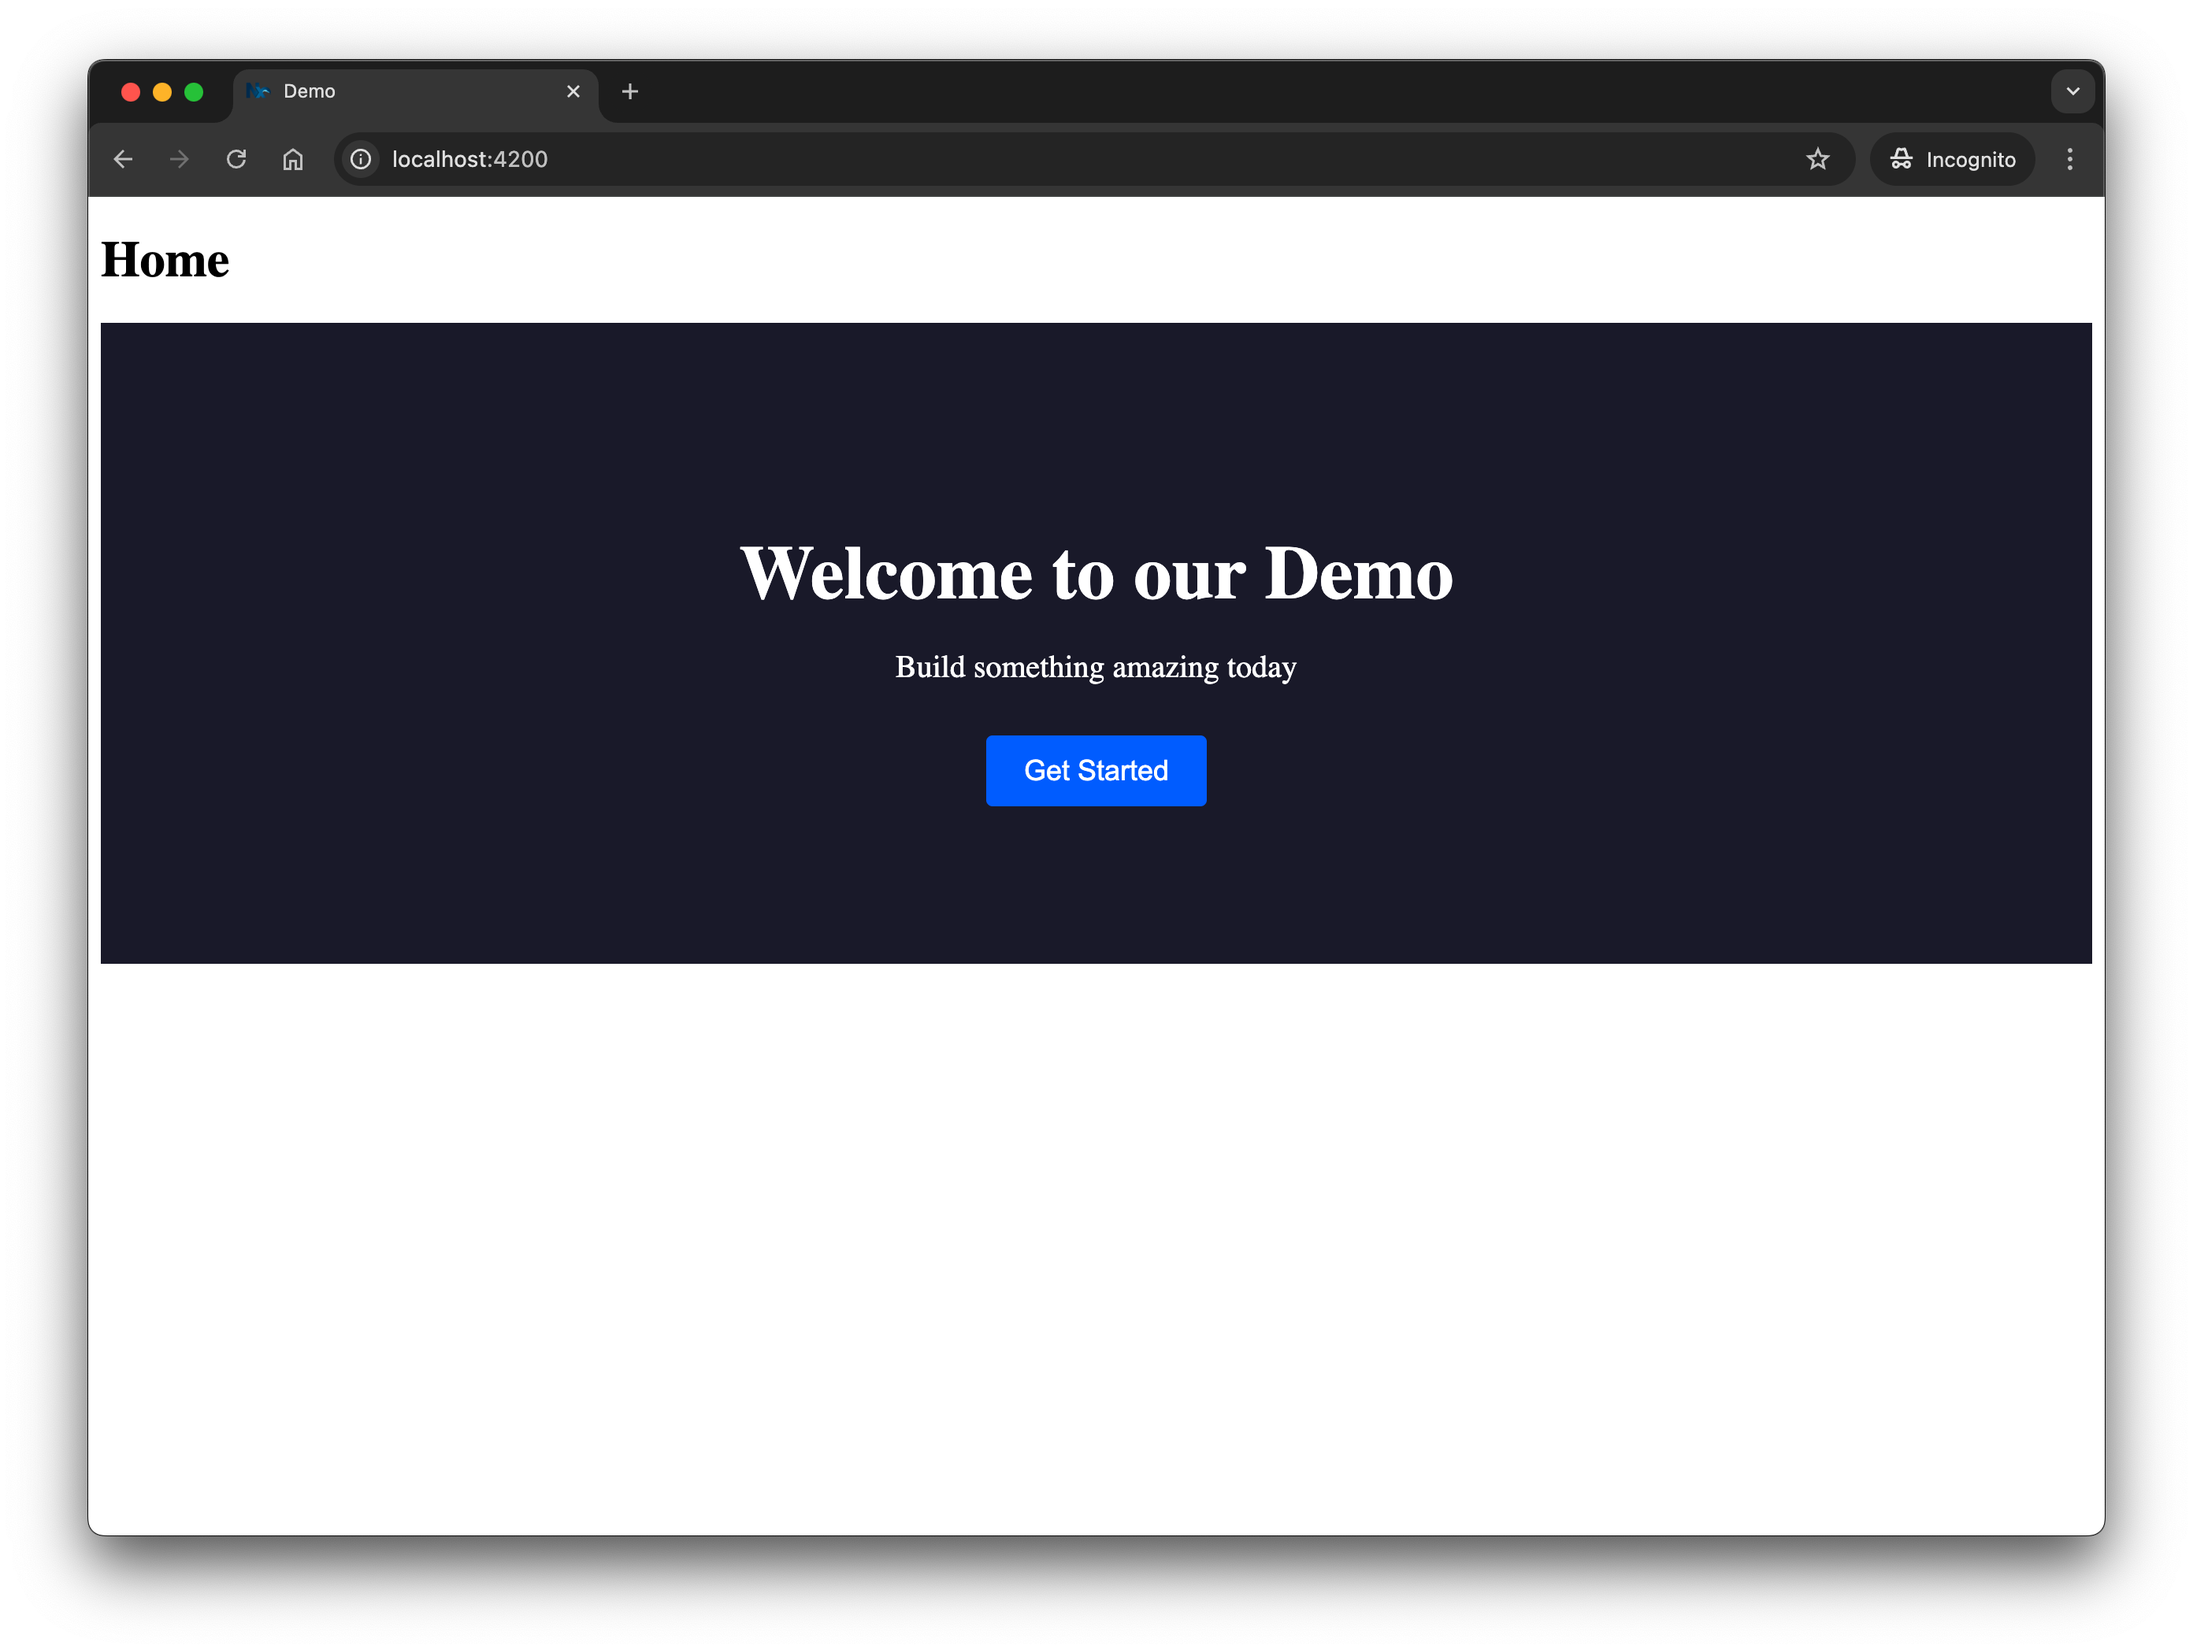
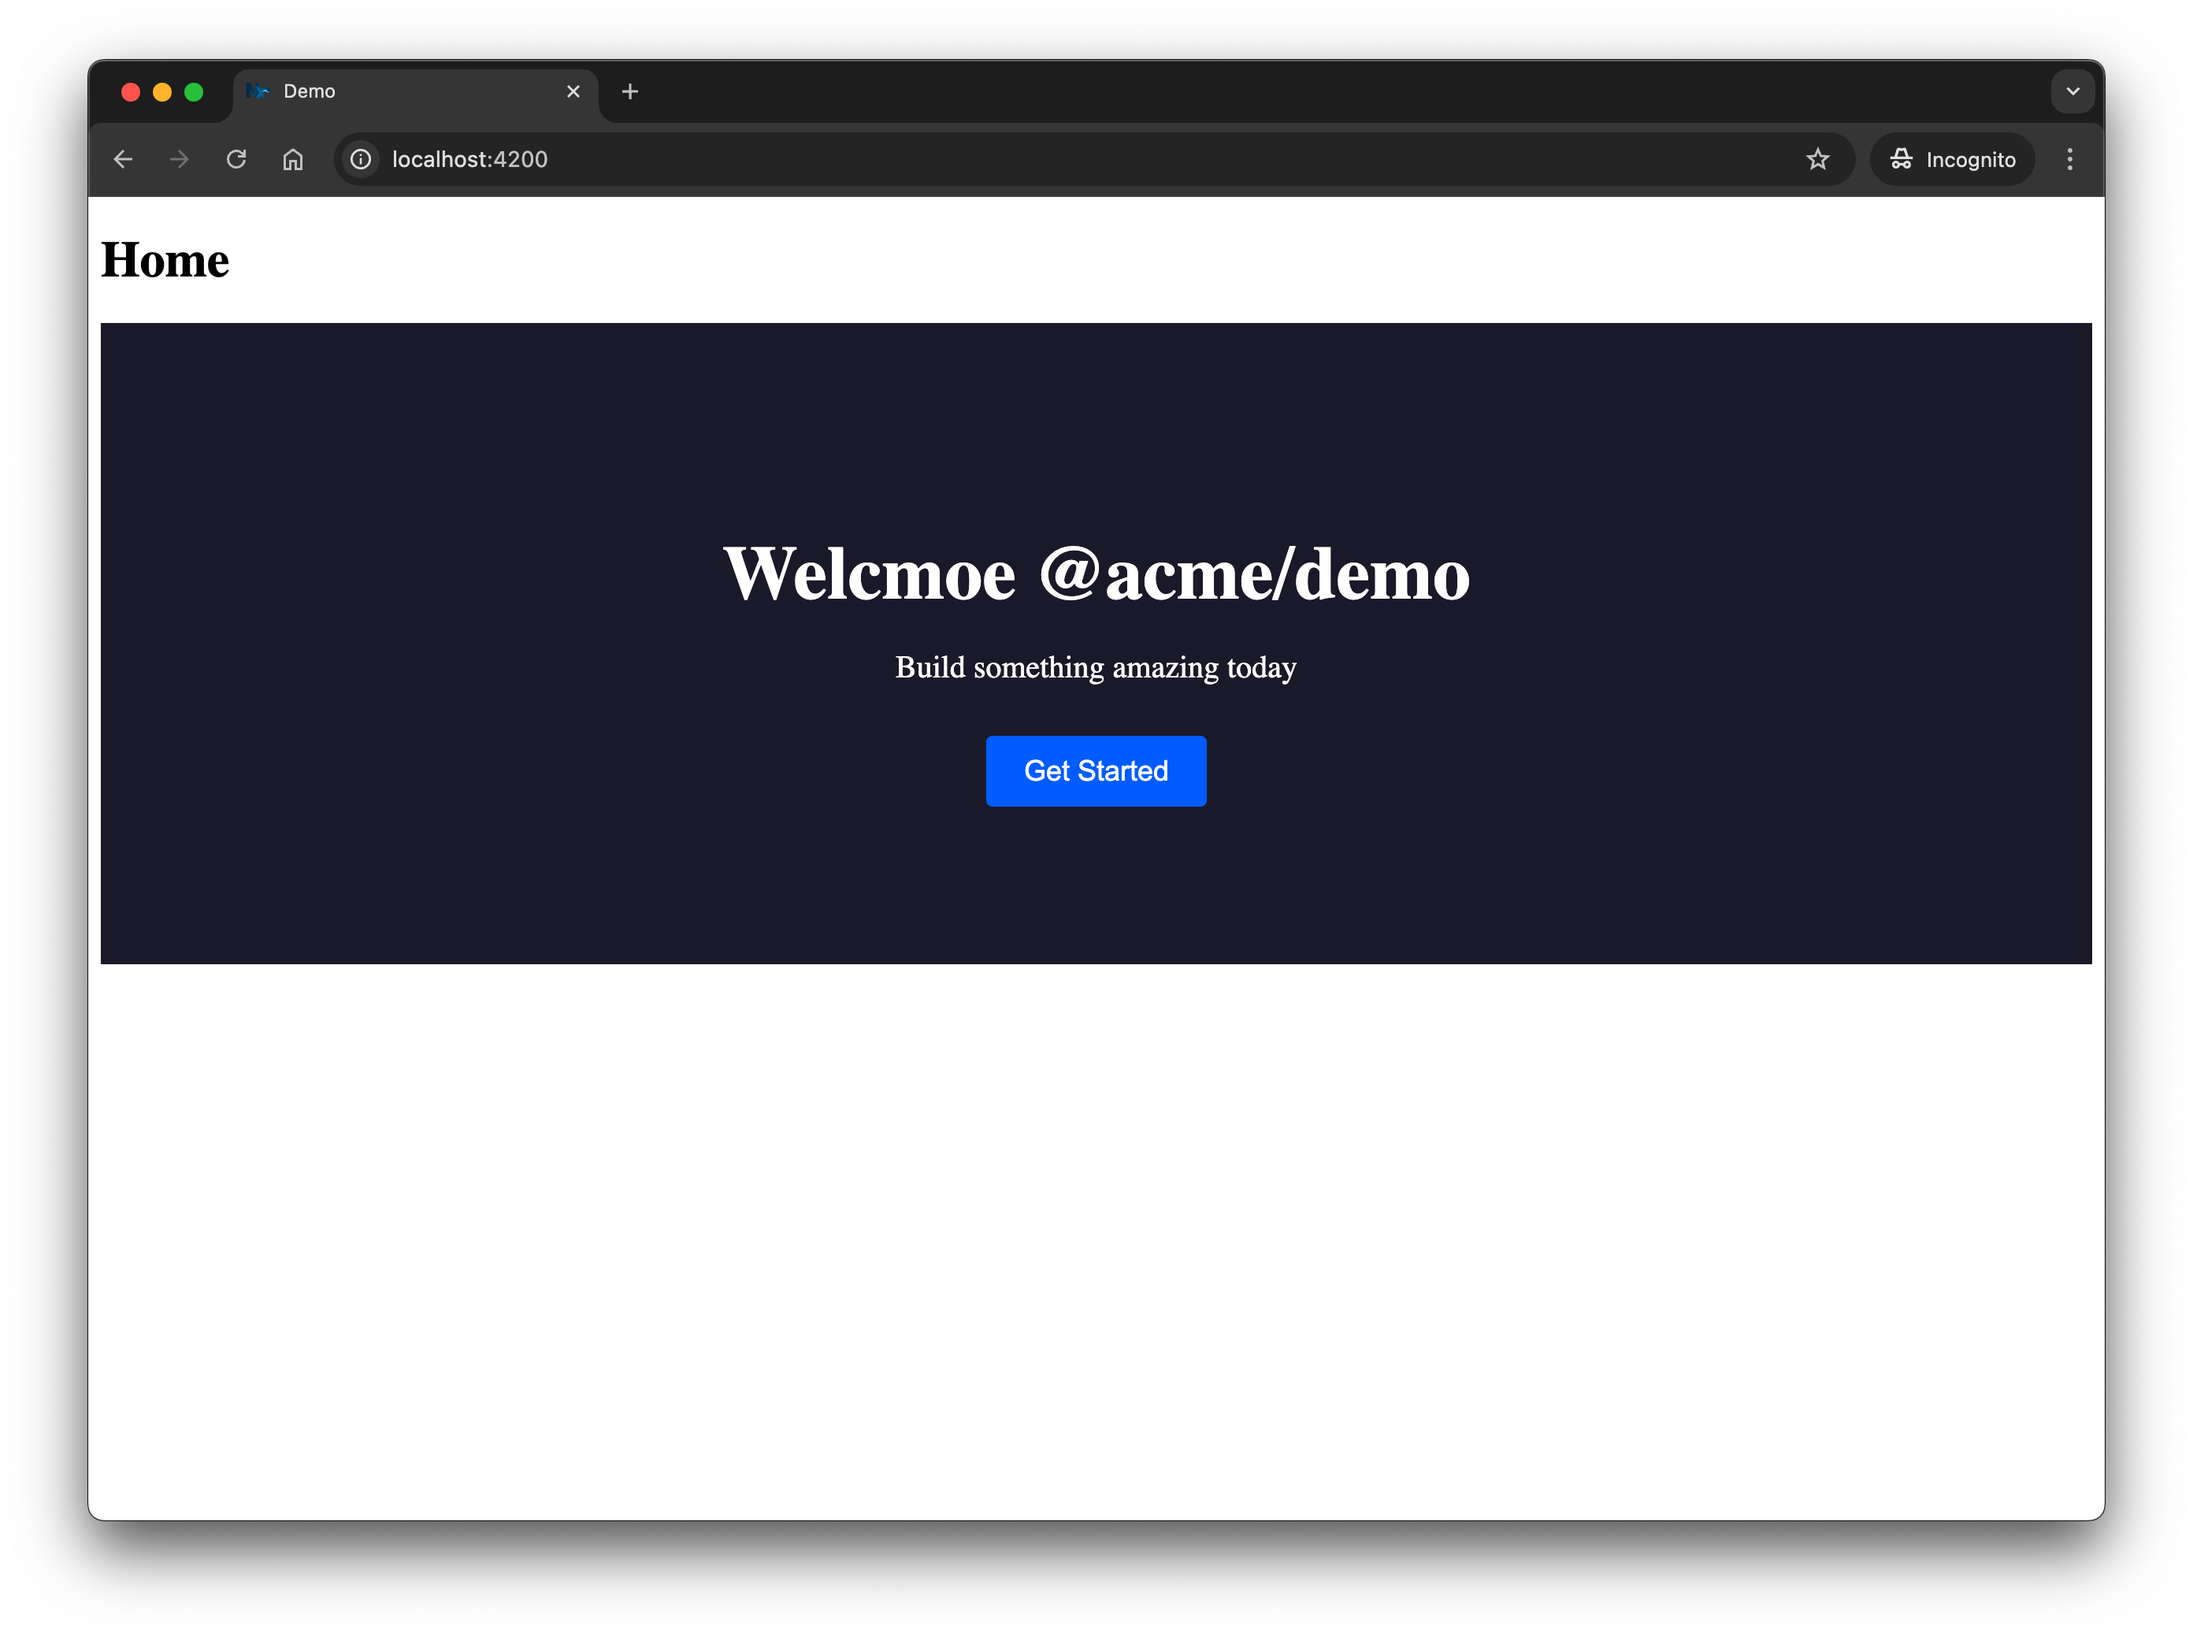
docs(react): address feedback and TODOs

diff --git a/docs/shared/tutorials/react-monorepo.md b/docs/shared/tutorials/react-monorepo.md
@@ -69,9 +69,21 @@ The `demo` app is created under the `apps` directory as a convention. Later in t
 
 The [`nx.json` file](/reference/nx-json) contains configuration settings for Nx itself and global default settings that individual projects inherit.
 
-Before continuing, it is **important** to make sure that your GitHub repository is [connected to your Nx Cloud organizatino](https://cloud.nx.app/setup) to enable remote caching and self-healing in CI.
+Before continuing, it is **important** to make sure that your GitHub repository is [connected to your Nx Cloud organization](https://cloud.nx.app/setup) to enable remote caching and self-healing in CI.
+
+### Checkpoint: Your Workspace is Created and Configured in CI
+
+At this point you should have:
+
+1. A new Nx workspace on your local machine with a React app in `apps/demo`
+2. A new GitHub repository for the workspace with `.github/worksflows/ci.yml` pipeline preconfigured
+3. A workspace in Nx Cloud that is connected to the GitHub repository
+
+You should see your workspace in your [Nx Cloud organization](https://cloud.nx.app/orgs).
 
 ![](/shared/images/tutorials/connected-workspace.png)
+
+If you do not see your workspace in Nx Cloud then please follow the steps outlined in the [Nx Cloud setup](https://cloud.nx.app/create-nx-workspace).
 
 Now, let's build some features and see how Nx helps get us to production faster.
 
@@ -263,32 +275,6 @@ export * from './lib/ui';
 Let's add a simple `Hero` component that we can use in our demo app.
 
 ```tsx {% fileName="packages/ui/src/lib/hero.tsx" %}
-const styles = {
-  hero: {
-    backgroundColor: '#1a1a2e',
-    color: 'white',
-    padding: '100px 20px',
-    textAlign: 'center' as const,
-  },
-  title: {
-    fontSize: '48px',
-    marginBottom: '16px',
-  },
-  subtitle: {
-    fontSize: '20px',
-    marginBottom: '32px',
-  },
-  button: {
-    backgroundColor: '#0066ff',
-    color: 'white',
-    border: 'none',
-    padding: '12px 24px',
-    fontSize: '18px',
-    borderRadius: '4px',
-    cursor: 'pointer',
-  },
-};
-
 export function Hero(props: {
   title: string;
   subtitle: string;
@@ -296,10 +282,42 @@ export function Hero(props: {
   onCtaClick?: () => void;
 }) {
   return (
-    <div style={styles.hero}>
-      <h1 style={styles.title}>{props.title}</h1>
-      <p style={styles.subtitle}>{props.subtitle}</p>
-      <button onClick={props.onCtaClick} style={styles.button}>
+    <div
+      style={{
+        backgroundColor: '#1a1a2e',
+        color: 'white',
+        padding: '100px 20px',
+        textAlign: 'center',
+      }}
+    >
+      <h1
+        style={{
+          fontSize: '48px',
+          marginBottom: '16px',
+        }}
+      >
+        {props.title}
+      </h1>
+      <p
+        style={{
+          fontSize: '20px',
+          marginBottom: '32px',
+        }}
+      >
+        {props.subtitle}
+      </p>
+      <button
+        onClick={props.onCtaClick}
+        style={{
+          backgroundColor: '#0066ff',
+          color: 'white',
+          border: 'none',
+          padding: '12px 24px',
+          fontSize: '18px',
+          borderRadius: '4px',
+          cursor: 'pointer',
+        }}
+      >
         {props.cta}
       </button>
     </div>
@@ -326,7 +344,7 @@ export function App() {
     <>
       <h1>Home</h1>
       <Hero
-        title="Welcome to our Demo"
+        title="Welcmoe to our Demo"
         subtitle="Build something amazing today"
         cta="Get Started"
       />
@@ -340,6 +358,8 @@ export default App;
 Serve your app again (`npx nx serve demo`) and you should see the new Hero component from the `ui` library rendered on the home page.
 
 ![](/shared/images/tutorials/react-demo-with-hero.png)
+
+If you have keen eyes, you may have noticed that there is a typo in the `App` component. This mistake is intentional, and we'll see later how Nx can fix this issue automatically in CI.
 
 ## Visualize your Project Structure
 
@@ -412,9 +432,9 @@ npx nx run-many -t test lint
 
 This is exactly what is configured in `.github/workflows/ci.yml` for the CI pipeline. The `run-many` command allows you to run multiple tasks across multiple projects in parallel, which is particularly useful in a monorepo setup.
 
-You may notice that the test failed for the `demo` app because we've updated the content. Don't worry about it for now, we'll fix it in a moment with the help of Nx Cloud's self-healing feature.
+There is a test failure for the `demo` app due to the updated content. Don't worry about it for now, we'll fix it in a moment with the help of Nx Cloud's self-healing feature.
 
-### Cache Tasks
+### Local Task Cache
 
 One thing to highlight is that Nx is able to [cache the tasks you run](/features/cache-task-results).
 
@@ -445,7 +465,7 @@ Not all tasks might be cacheable though. You can configure the `cache` settings 
 
 In this section, we'll explore how Nx Cloud can help your pull request get to green faster with self-healing CI. Recall that our demo app has a test failure, so let's see how this can be automatically resolved.
 
-Before we continue, make sure you have `npx nx-cloud fix-ci` in your GitHub Actions workflow. This command is responsible for enabling self-healing CI.
+The `npx nx-cloud fix-ci` command that is already included in your GitHub Actions workflow (e.g. `github/workflows/ci.yml`)is responsible for enabling self-healing CI and will automatically suggest fixes to your failing tasks.
 
 ```yaml {% fileName=".github/workflows/ci.yml" highlightLines=[31,32] %}
 name: CI
@@ -468,15 +488,15 @@ jobs:
         with:
           filter: tree:0
           fetch-depth: 0
+
       - uses: actions/setup-node@v4
         with:
           node-version: 20
           cache: 'npm'
 
       - run: npm ci --legacy-peer-deps
-      - uses: nrwl/nx-set-shas@v4
 
-      - run: npx nx affected -t lint test build
+      - run: npx nx run-many -t lint test build
 
       - run: npx nx-cloud fix-ci
         if: always()
@@ -484,43 +504,58 @@ jobs:
 
 You will also need to install the [Nx Console](/getting-started/editor-setup) editor extension for VS Code, Cursor, or IntelliJ. For the complete AI setup guide, see our [AI integration documentation](/getting-started/ai-integration).
 
+{% install-nx-console /%}
+
 Now, let's push the `add-hero-component` branch to GitHub and open a new pull request.
 
 ```shell
 git push origin add-hero-component
+# Don't forget to open a pull request on GitHub
 ```
 
-// TODO(jack): Show a screenshot of the PR on GitHub with the failed CI check.
+As expected, the CI check fails because of the test failure in the `demo` app. But rather than looking at the pull request, Nx Console notifies you that the run has completed, and that it has a suggested fix for the failing test. This means that you don't have to waste time **babysitting your PRs**, and the fix can be applied directly from your editor.
 
-As expected, the CI check fails because of the test failure in the `demo` app. Nx Console notifies you whenever a CI run completes, whether successfully or not. This means that you don't have waste time **babysitting your PRs**.
-
-![Nx Console with failure notification](/shared/images/tutorials/react-ci-failure-console.png)
+![Nx Console with failure notification](/shared/images/tutorials/react-ci-notification.png)
 
 ### Fix CI from Your Editor
 
-From the Nx Console notification, you can click `Help me fix this error` button. Review the suggested unit test fix, and approve it. That's it!
+From the Nx Console notification, you can click `Show Suggested Fix` button. Review the suggested fix, which in this case is to change the typo `Welcmoe `to the correct `Welcome` spelling. Approve this fix by clicking `ApplyFix` and that's it!
 
-// TODO(jack): The screenshot below should match the actual error and suggestion (I just pulled this from blog post since I woudln't get it to work)
+![Suggestion to fix the typo in the editor](/shared/images/tutorials/react-ci-suggestion.png)
 
-![Suggested fix to update the test to match new text](/shared/images/tutorials/react-ci-fix-suggestion.avif)
+You didn't have to leave your editor or do any manual work to fix it. This is the power of self-healing CI with Nx Cloud.
 
-Now, your pull request should be green, and you didn't have to leave your editor or do any manual work to fix it. This is the power of self-healing CI with Nx Cloud.
+### Remote Cache for Faster Time To Green
 
-The remainder of this tutorial will focus on how to scale your monorepo to work with larger teams and large codebases. If this is not applicable to you now, feel free to skip ahead to [the end of the tutorial](#next-steps).
+After the fix has been applied and committed, CI will re-run automatically, and you will be notified of the results in your editor.
 
-## Scaling Your Monorepo
+![Tasks with remote cache hit](/shared/images/tutorials/react-remote-cache-notification.png)
 
-// TODO(jack): We should put affected and distribution in this section, or create a separate guide and link to it.
+When you click `View Results` to show the run in Nx Cloud, you'll notice something interesting. The lint and test tasks fo the `ui` library were read from remote cache and did not have to run again, thus each taking less than a second to complete.
+
+![Nx Cloud run showing remote cache hits](/shared/images/tutorials/react-remote-cache-cloud.png)
+
+This happens because Nx Cloud caches the results of tasks and reuses them across different CI runs. As long as the inputs for each task have not changed (e.g. source code), then their results can be replayed from Nx Cloud's [Remote Cache](/ci/features/remote-cache). In this case, since the last fix was applied only to the `demo` app's source code, none of the tasks for `ui` library had to be run again.
+
+This significantly speeds up the time to green for your pull requests, because subsequent changes to them have a good chance to replay tasks from cache.
+
+{% callout type="note" title="Remote Cache Outputs" %}
+Outputs from cached tasks, such as the `dist` folder for builds or `coverage` folder for tests, are also read from cache. Even though a task was not run again, its outputs are available. The [Cache Task Results](/features/cache-task-results) page provides more details on caching.
+{% /callout %}
+
+This pull request is now ready to be merged with the help of Nx Cloud's self-healing CI and remote caching.
+
+![Pull request is green](/shared/images/tutorials/react-ci-green.png)
 
 ## Next Steps
 
-Here's some things you can dive into next:
+Here are some things you can dive into next:
 
 - Learn more about the [underlying mental model of Nx](/concepts/mental-model)
-- Learn how to [migrate your React app to Nx](/recipes/adopting-nx/adding-to-existing-project)
-- Learn about [enforcing boundaries between projects](/features/enforce-module-boundaries)
-- [Learn how to setup Tailwind](/technologies/react/recipes/using-tailwind-css-in-react)
+- Learn how to [migrate your existing project to Nx](/recipes/adopting-nx/adding-to-existing-project)
 - [Setup Storybook for our shared UI library](/technologies/test-tools/storybook/recipes/overview-react)
+- [Learn how to setup Tailwind](/technologies/react/recipes/using-tailwind-css-in-react)
+- Learn about [enforcing boundaries between projects](/features/enforce-module-boundaries)
 
 Also, make sure you
 
